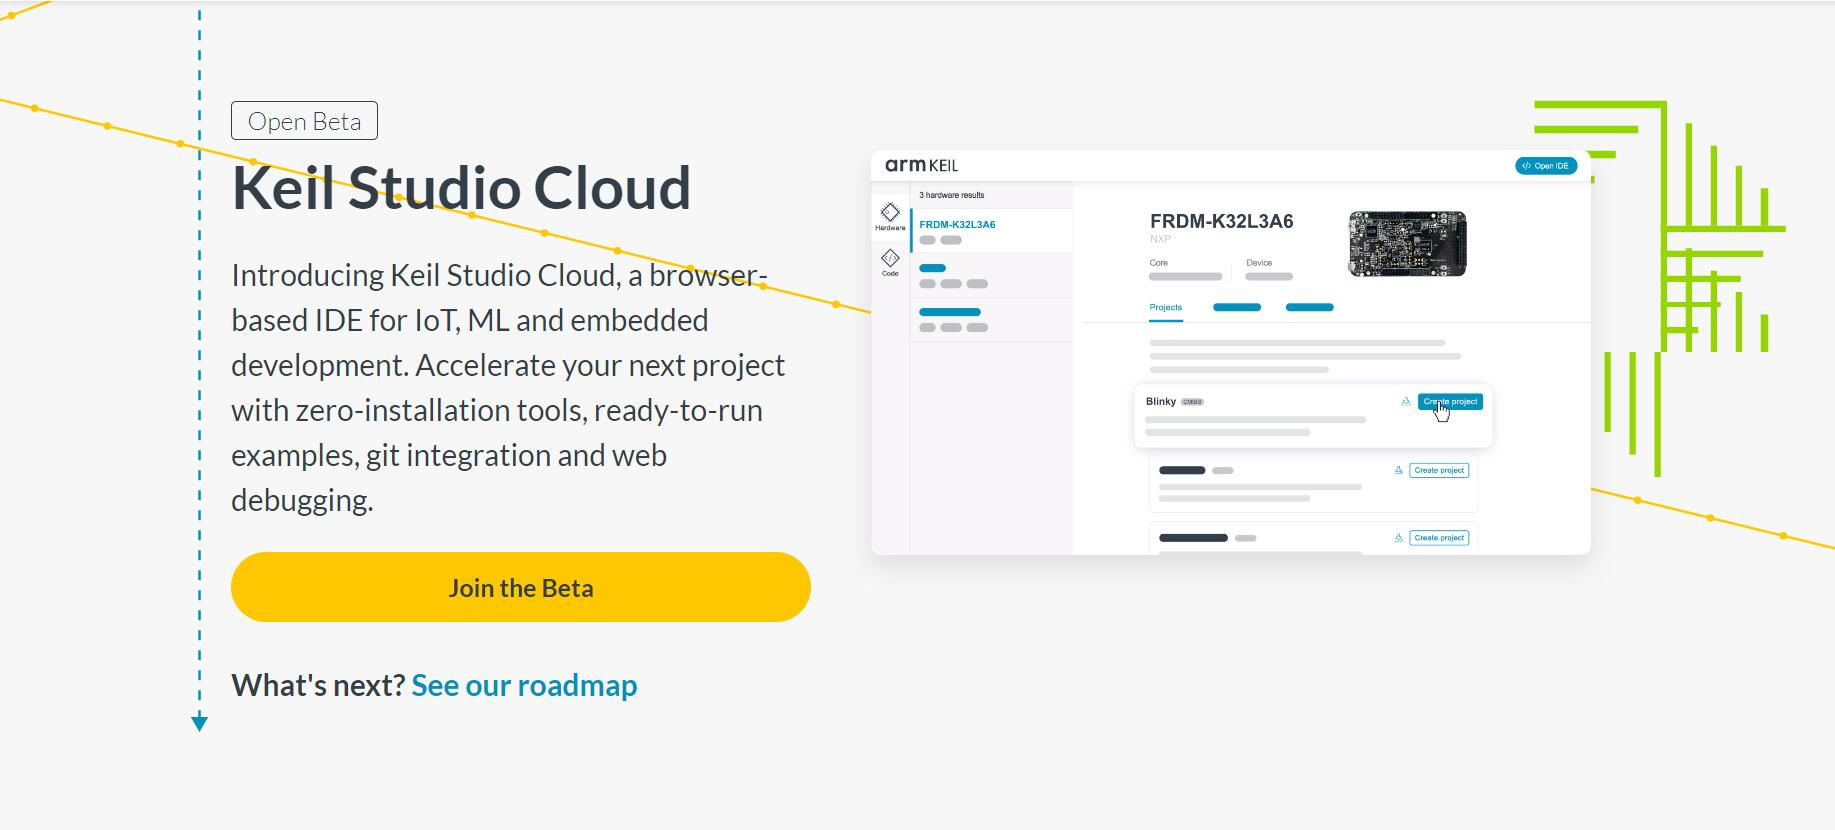
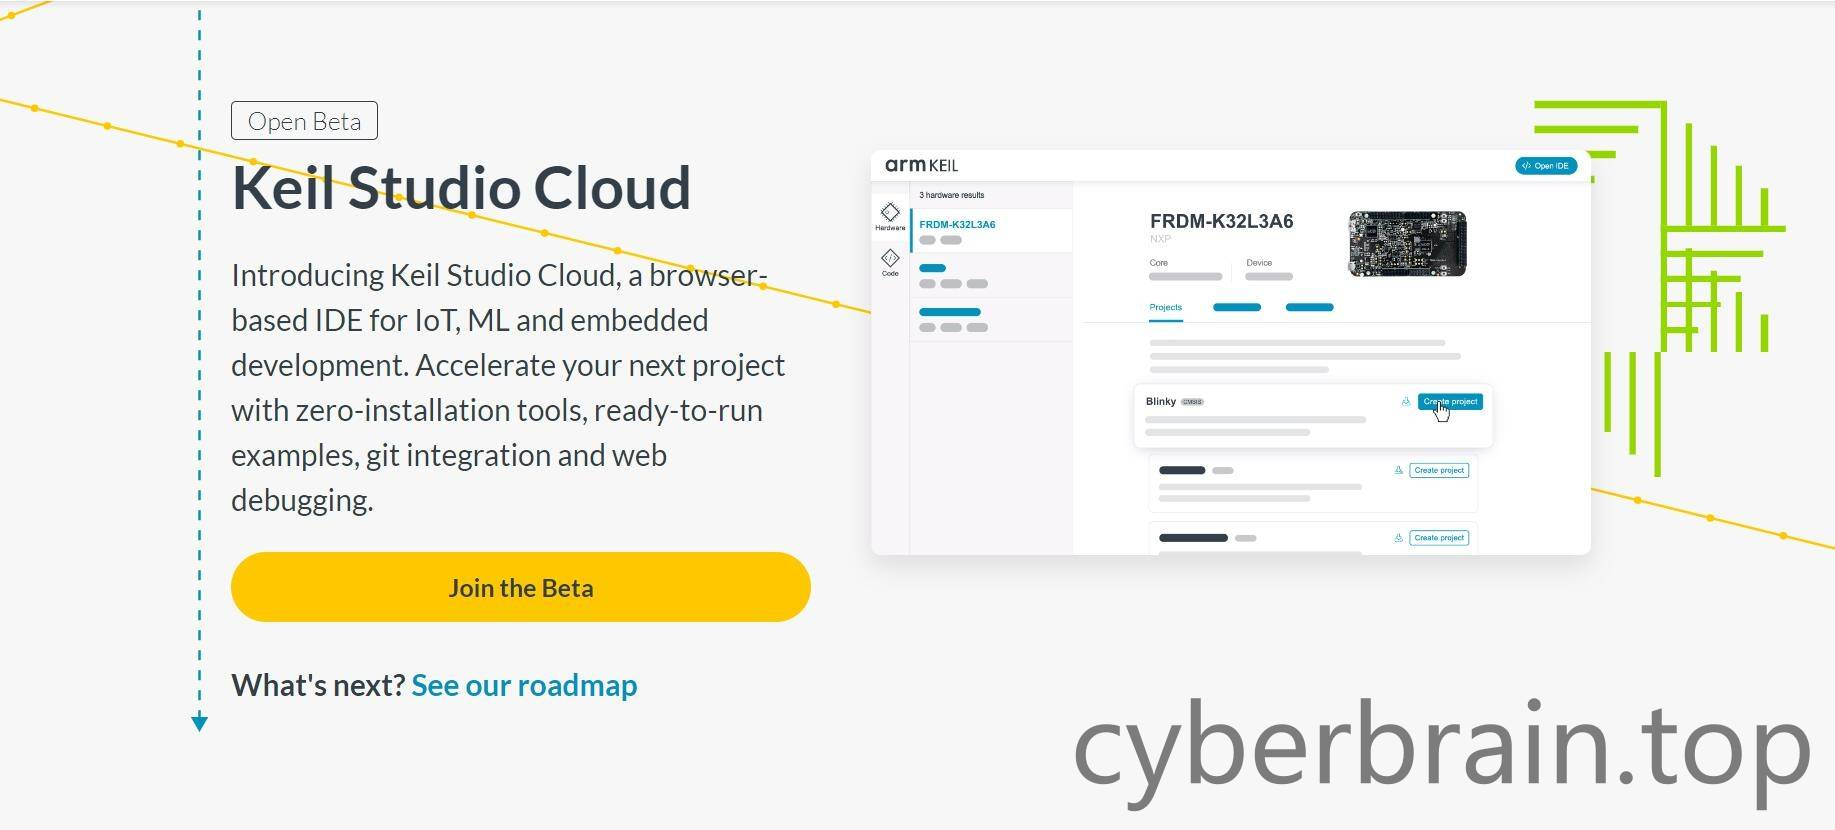
Site updated: 2021-06-26 20:47:44

diff --git a/posts/3a4f2bb0/index.html b/posts/3a4f2bb0/index.html
@@ -24,7 +24,7 @@
 <meta property="og:locale">
 <meta property="og:image" content="https://cyberbrain.top/posts/3a4f2bb0/%E5%B0%81%E9%9D%A2.jpg">
 <meta property="article:published_time" content="2021-03-14T09:25:19.000Z">
-<meta property="article:modified_time" content="2021-06-26T09:34:54.659Z">
+<meta property="article:modified_time" content="2021-06-26T12:41:09.708Z">
 <meta property="article:author" content="无星之夜的咏叹调">
 <meta property="article:tag" content="建站">
 <meta property="article:tag" content="更新日记">
@@ -127,7 +127,7 @@
                         <i class="fa fa-edit"></i> 
                         
                         
-                            384
+                            394
                         
                         字
                         
@@ -138,7 +138,7 @@
             </header>
             <div class="kratos-post-content">
                 <div id="expire-alert" class="alert alert-warning hidden" role="alert">
-                    本文最后编辑于 <time datetime="1624700094659"></time> 前，其中的内容可能需要更新。
+                    本文最后编辑于 <time datetime="1624711269708"></time> 前，其中的内容可能需要更新。
                 </div>
                 
                 <hr />
@@ -217,6 +217,10 @@
 </li>
 <li><ul>
 <li>原创文章图片添加水印”cyberbrain.top”</li>
+</ul>
+</li>
+<li><ul>
+<li>新增分享功能</li>
 </ul>
 </li>
 </ul>
